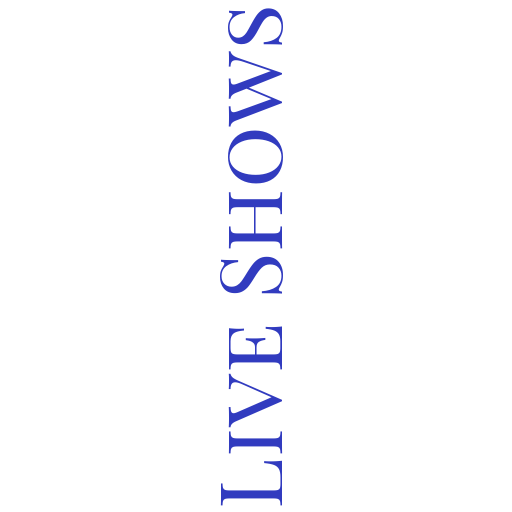
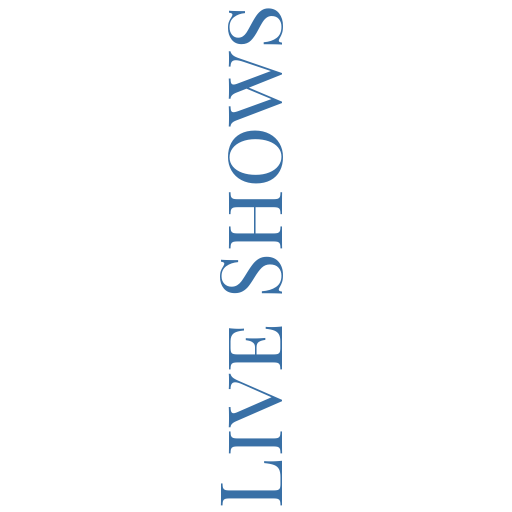
Change to lighter shade of blue and add contact popup

diff --git a/src/App.css b/src/App.css
@@ -62,36 +62,36 @@
 .facebook {
   max-width: 45%;
   max-height: 45%;
-  padding-bottom: 15px;
+  padding-bottom: 25px;
 }
 
 .instagram{
   max-width: 45%;
   max-height: 45%;
-  padding-bottom: 15px;
+  padding-bottom: 25px;
 }
 
 .youtube{
   max-width: 45%;
   max-height: 45%;
-  padding-bottom: 15px;
+  padding-bottom: 25px;
 }
 
 .soundcloud{
   max-width: 45%;
   max-height: 45%;
-  padding-bottom: 15px;
+  padding-bottom: 25px;
 }
 
 .bandcamp{
   max-width: 45%;
   max-height: 45%;
-  padding-bottom: 15px;
+  padding-bottom: 25px;
 }
 
 .right-button{
-  max-width: 100%;
-  max-height: 100%;
+  max-width: 125%;
+  max-height: 125%;
 }
 
 .right-bar{
@@ -123,7 +123,7 @@
   left: 0;
   width: 100%;
   height: 100vh;
-  background-color: rgba(0, 0, 0, 0.5);
+  background-color: rgba(0, 0, 0, 0.75);
 
   display: flex;
   justify-content: center;

diff --git a/src/components/RightBarContactButton.js b/src/components/RightBarContactButton.js
@@ -17,15 +17,17 @@ class RightBarContactButton extends Component {
     }
 
     handleClick = () => {
-        //this.popupRef.current.triggerPopup()
-        window.open("mailto:nlangemusic@gmail.com");
+        this.popupRef.current.triggerPopup()
+        //window.open("mailto:nlangemusic@gmail.com");
     }
 
     render () {
         return (
             <div className="soundcloud-icon">
                 <Popup ref={this.popupRef} trigger={false}>
-                    <stylized>contact donda</stylized>
+                    <montserrat-mid>General</montserrat-mid>
+                    <br></br>
+                    <montserrat-light>nlangemusic@gmail.com</montserrat-light>
                 </Popup>
                 <img 
                 className="right-button" 

diff --git a/src/index.css b/src/index.css
@@ -43,22 +43,26 @@ montserrat-light {
   font-family: 'Montserrat', sans-serif;
   font-weight: 100;
   font-style: normal;
+  color: #3970a6;
 }
 
 montserrat-light-italic {
   font-family: 'Montserrat', sans-serif;
   font-weight: 100;
   font-style: italic;
+  color: #3970a6;
 }
 
 montserrat-mid {
   font-family: 'Montserrat', sans-serif;
   font-weight: 400;
   font-style: normal;
+  color: #3970a6;
 }
 
 montserrat-heavy {
   font-family: 'Montserrat', sans-serif;
   font-weight: 900;
   font-style: normal;
+  color: #3970a6;
 }

diff --git a/src/components/Popup.js b/src/components/Popup.js
@@ -25,7 +25,7 @@ class Popup extends Component {
             <div className="popup">
                 <div className="popup-inner">
                     <div className="close-btn">
-                        <CloseIcon sx={{ color: '#FF0000' }} onClick={() => this.setState({trigger: false})}/>
+                        <CloseIcon sx={{ color: '#3970A6' }} onClick={() => this.setState({trigger: false})}/>
                     </div>
                     {this.props.children}
                 </div>

diff --git a/src/components/SocialMediaIconsSeparate.js b/src/components/SocialMediaIconsSeparate.js
@@ -20,11 +20,11 @@ class SocialMediaIconsSeparate extends Component {
     render () {
         return (
             <div className="social-icons">
+                <BandcampButton/>
                 <FacebookButton/>
                 <InstagramButton/>
                 <SoundcloudButton/>
                 <YoutubeButton/>
-                <BandcampButton/>
             </div>            
         )
     }
